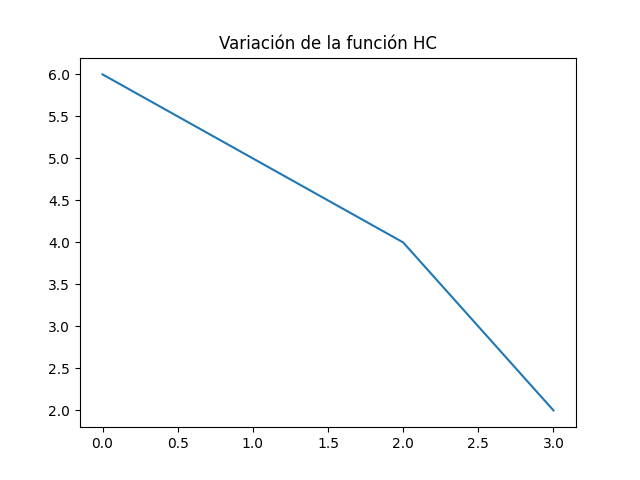
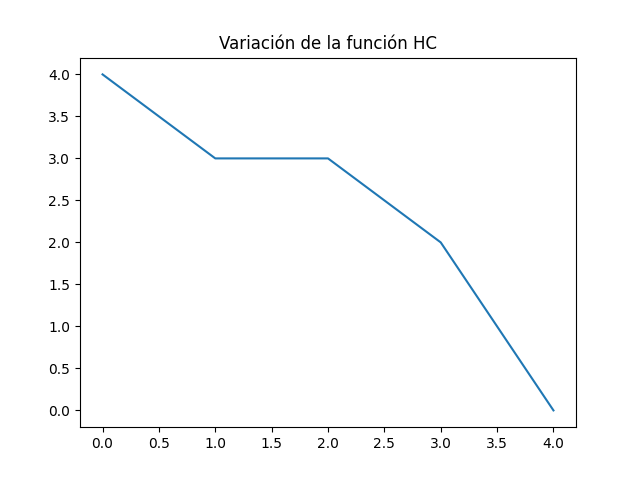
added improved plots

diff --git a/tp-5-busquedas-locales/code/test.py b/tp-5-busquedas-locales/code/test.py
@@ -29,6 +29,7 @@ for j in range(0,intentos):
         #env.printQueens()
         HC = HC+1
         timeHistory.append(end-start)
+        results.append(last)
         plt.plot(results)
         plt.title("Variación de la función HC")
         plt.show()
@@ -72,6 +73,7 @@ for j in range(0,intentos):
         #env.printQueens()
         SA = SA + 1
         timeHistory.append(end-start)
+        results.append(last)
         plt.plot(results)
         plt.title("Variación de la función SA")
         plt.show()
